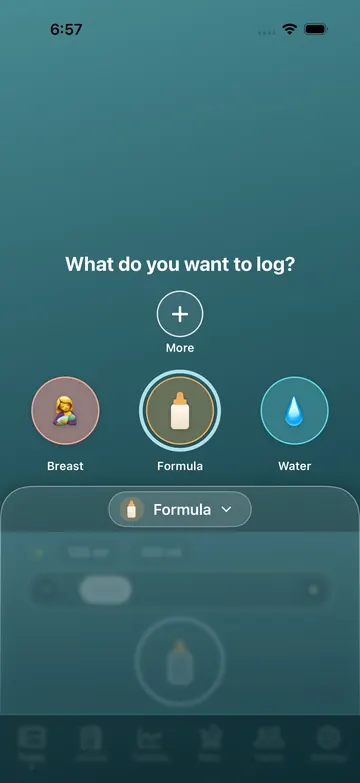
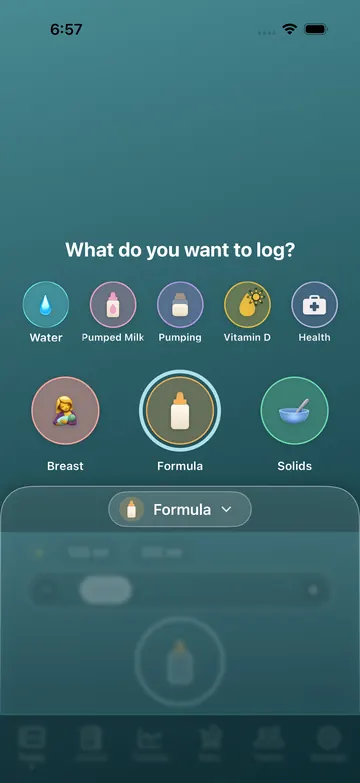
feat: step 01 phone shows everything the app logs, composed from real captures

Changed region(s): [[0.0611, 0.3065, 0.825, 0.4598], [0.7028, 0.4598, 0.9167, 0.613], [0.7944, 0.3372, 0.9472, 0.4598]]

diff --git a/scripts/prepare-how-it-works.py b/scripts/prepare-how-it-works.py
@@ -1,7 +1,9 @@
 """Images for the home page "How logging works" section (index.html #how-it-works).
 
 Every frame is a real app capture. Nothing is drawn or retouched:
-- start   = screens/logging.jpg (the log menu), resized.
+- start   = the log menu ("What do you want to log?") showing everything the app can log at once. The app
+  shows three types and keeps the rest behind More; for the website the discs are laid out together in two
+  rows. Every disc and every word is cut from a real 1206x2622 capture (see compose_picker below).
 - press, log, finish = three frames of ONE real recording of a 2.5 oz bottle being logged
   (ff-167-livepolish scratch/livepolish/round3/attempt1/clip-i17.mp4, 1206x2622): Today before the
   feed at 14.5 s (17.5 oz so far), the bottle screen at 37.5 s (2.5 oz taken, 1.5 oz left) and Today
@@ -55,14 +57,84 @@ def save(image: Image.Image, name: str, quality: int = 78) -> None:
         print(f"Created {target.relative_to(ROOT)} ({width}x{height}, {target.stat().st_size // 1024} KB)")
 
 
-# Phone 1: the current type picker ("What do you want to log?"), a 1206x2622 in-app capture from
-# the 2026-11-15 fill-stage run. Falls back to the older radial menu when that folder is missing.
-NEWER_PICKER = Path.home() / "Developer/ff-167-settings/scratch/fill/after/fill-menu-ocean-en-i17.png"
-if NEWER_PICKER.exists():
-    START = Image.open(NEWER_PICKER).convert("RGB")
-else:
-    START = Image.open(ROOT / "screens" / "logging.jpg").convert("RGB")
-save(START, "start")
+# Phone 1: the type picker ("What do you want to log?") with EVERYTHING the app logs on one screen (round 6).
+# The app's own stage shows up to three feed types and opens the rest behind More, so no single capture holds
+# them all. This composes one from real pixels, all Ocean, English, iPhone 17 (1206x2622), all at the app's
+# own scale:
+#   ground, title, Breast, Formula (selected), the blurred panel  = fill-menu-ocean-en-i17 (2026-11-15 fill run)
+#   Solids as a large disc                                        = health-three-extras-en-i17 (health run r3)
+#   Pumped Milk, Pumping, Vitamin D, Health as small discs        = health-six-extras-en-i17 (health run r3)
+#   Water as a small disc = the large Water disc of fill-menu scaled 156/228 (no capture has it small); its
+#   word is the capture's own, unscaled.
+# A disc is moved as (its pixels minus the plain ground behind it) added onto the ground where it lands, so
+# nothing is redrawn and no box shows. The ground is the capture's own edge columns, blended across.
+PICKER_MENU = Path.home() / "Developer/ff-167-settings/scratch/fill/after/fill-menu-ocean-en-i17.png"
+PICKER_HEALTH = Path.home() / "Developer/ff-167-health/scratch/health/r3"
+LARGE_Y, SMALL_Y_SIX, LARGE_X = 1374.5, 792.5, (218.5, 602.5, 986.5)
+BACK_Y, TITLE_SHIFT = 1019, -48
+BACK_X = tuple(603 + 225 * i for i in range(-2, 3))
+
+
+def compose_picker() -> Image.Image:
+    import numpy as np
+    from PIL import ImageFilter
+
+    def load(path):
+        return np.asarray(Image.open(path).convert("RGB"), dtype=float)
+
+    def ground(a):
+        left, right = a[:, 4:24].mean(axis=1), a[:, 1182:1202].mean(axis=1)
+        mix = np.linspace(0, 1, a.shape[1])[None, :, None]
+        return left[:, None, :] * (1 - mix) + right[:, None, :] * mix
+
+    menu, three, six = load(PICKER_MENU), load(PICKER_HEALTH / "health-three-extras-en-i17.png"), load(PICKER_HEALTH / "health-six-extras-en-i17.png")
+    delta = {"menu": menu - ground(menu), "three": three - ground(three), "six": six - ground(six)}
+
+    def soft(height, width, feather=10):
+        mask = Image.new("L", (width, height), 0)
+        mask.paste(255, (feather, feather, width - feather, height - feather))
+        return np.asarray(mask.filter(ImageFilter.GaussianBlur(feather / 2.5)), dtype=float)[..., None] / 255
+
+    # The ground: the menu capture with its title, More and three discs taken out (x 40..1166, y 820..1600).
+    out = menu.copy()
+    y0, y1, x0, x1 = 820, 1600, 40, 1166
+    out[y0:y1, x0:x1] -= delta["menu"][y0:y1, x0:x1] * soft(y1 - y0, x1 - x0, 14)
+
+    def place(patch, cx, cy):
+        """Add a ground-free patch (h x w x 3) centred on (cx, cy)."""
+        h, w, _ = patch.shape
+        top, left = round(cy - h / 2), round(cx - w / 2)
+        out[top:top + h, left:left + w] += patch * soft(h, w)
+
+    def cut(name, cx, cy, half_w, up, down):
+        return delta[name][round(cy - up):round(cy + down), round(cx - half_w):round(cx + half_w)], (down - up) / 2
+
+    def move(name, cx, cy, to_x, to_y, half_w, up, down):
+        patch, offset = cut(name, cx, cy, half_w, up, down)
+        place(patch, to_x, to_y + offset)
+
+    move("menu", 603, 889, 603, 889 + TITLE_SHIFT, 420, 50, 50)                    # the title
+    move("menu", LARGE_X[0], LARGE_Y, LARGE_X[0], LARGE_Y, 150, 152, 214)          # Breast
+    move("menu", LARGE_X[1], LARGE_Y, LARGE_X[1], LARGE_Y, 156, 152, 214)          # Formula, with its ring
+    move("three", LARGE_X[2], LARGE_Y, LARGE_X[2], LARGE_Y, 150, 152, 214)         # Solids
+    # Back row, left to right: Water, Pumped Milk, Pumping, Vitamin D, Health.
+    move("six", 484.5, SMALL_Y_SIX, BACK_X[1], BACK_Y, 112, 88, 138)
+    move("six", 964.5, SMALL_Y_SIX, BACK_X[2], BACK_Y, 112, 88, 138)
+    move("six", 244.5, SMALL_Y_SIX, BACK_X[3], BACK_Y, 112, 88, 138)
+    move("six", 730.5, 546.5, BACK_X[4], BACK_Y, 112, 88, 138)
+    disc, _ = cut("menu", LARGE_X[2], LARGE_Y, 126, 126, 126)
+    size = round(252 * 156 / 228)
+    small = np.stack([np.asarray(Image.fromarray(disc[..., c]).resize((size, size), Image.Resampling.LANCZOS)) for c in range(3)], axis=-1)
+    place(small, BACK_X[0], BACK_Y)
+    word, _ = cut("menu", LARGE_X[2], 1559.5, 80, 24, 24)
+    place(word, BACK_X[0], BACK_Y + 111.5)
+    return Image.fromarray(out.clip(0, 255).round().astype("uint8"))
+
+
+# Without those two capture folders the committed start webps and start-bg.png stay as they are.
+START = compose_picker() if PICKER_MENU.exists() and PICKER_HEALTH.exists() else None
+if START is not None:
+    save(START, "start")
 
 # swiftc -O scripts/extract-frames.swift -o /tmp/extract-frames
 # /tmp/extract-frames <clip-i17.mp4> <RECORDING dir> 14.5 37.5 44.1   (then rename as below)
@@ -115,7 +187,8 @@ def background_strip(image: Image.Image, name: str, left_cols=(0.008, 0.03), rig
     print(f"Created {target.relative_to(ROOT)}")
 
 
-background_strip(START, "start")
+if START is not None:
+    background_strip(START, "start")
 for name, frame in RECORDED_FRAMES.items():
     background_strip(frame, name)
 background_strip(Image.open(ROOT / "screens" / "flowcast-720.webp"), "flowcast")
